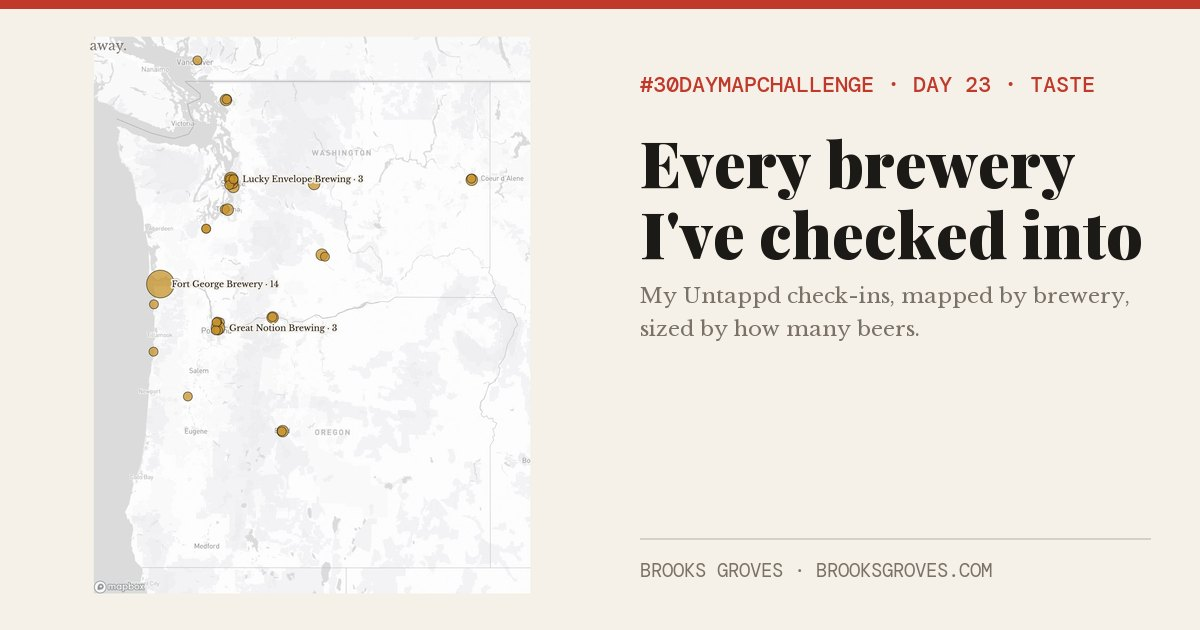
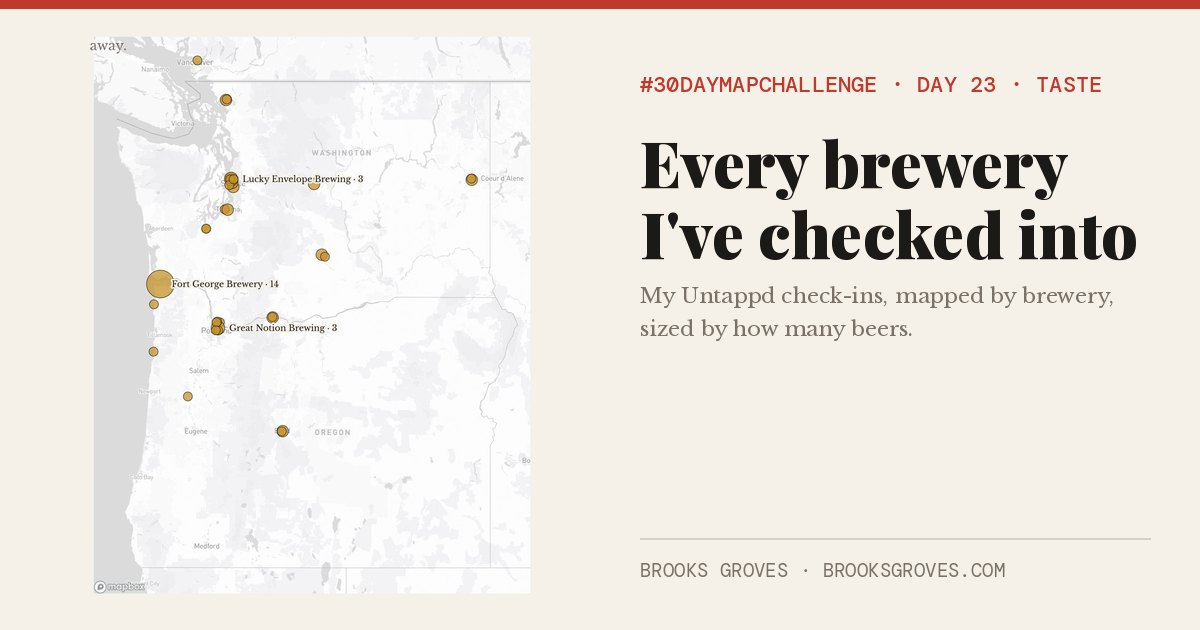
2026 Days 21, 23, 27: fixes from the first render (dashed paths, brewery towns, Overture release name)

diff --git a/2026/day-23-taste/make.py b/2026/day-23-taste/make.py
@@ -36,8 +36,22 @@ DATA.mkdir(exist_ok=True)
 HISTORY = "https://raw.githubusercontent.com/bdgroves/hoplove/main/data/untappd/history.yml"
 OBDB = "https://api.openbrewerydb.org/v1/breweries/search"
 VIEW = (-125.2, 41.6, -116.2, 49.6)                    # Cascadia: lon/lat box for the main map
-# Breweries Open Brewery DB doesn't hold, or holds under another name: (lon, lat, place)
+# Breweries Open Brewery DB doesn't hold, or holds under another name: (lon, lat, place). Placed at their
+# town (checked against each brewery's Untappd page or website, October 2026), not a street address.
 MANUAL = {
+    "Kings & Daughters Brewery": (-121.5215, 45.7054, "Hood River, OR"),
+    "Hood River Brewing Company": (-121.5215, 45.7054, "Hood River, OR"),
+    "Tripping Animals Brewing Co.": (-80.3553, 25.8195, "Doral, FL"),
+    "Stoup Brewing": (-122.3720, 47.6681, "Seattle, WA"),
+    "Vice Beer": (-122.6739, 45.6280, "Vancouver, WA"),
+    "Irrelevant Beer": (-122.6717, 45.6337, "Vancouver, WA"),
+    "Maui Brewing Company": (-156.4450, 20.7645, "Kihei, HI"),
+    "Superflux Beer Company": (-123.0700, 49.2766, "Vancouver, BC"),
+    "Phillips Brewing & Malting Co.": (-123.3656, 48.4284, "Victoria, BC"),
+    "Hetty Alice": (-122.6490, 45.5140, "Portland, OR"),
+    "Shaketown Brewing": (-123.0790, 49.3105, "North Vancouver, BC"),
+    "Gulfstream Brewing": (-80.1373, 26.1224, "Fort Lauderdale, FL"),
+    "Little Beast Brewing": (-122.6784, 45.5152, "Portland area, OR"),
     "Guinness": (-6.2867, 53.3419, "Dublin"),
     "Birrificio Angelo Poretti": (8.8406, 45.8513, "Induno Olona, Italy"),
     "Ichnusa": (9.0035, 39.2905, "Assemini, Sardinia"),

diff --git a/2026/day-27-new-tool/make.py b/2026/day-27-new-tool/make.py
@@ -40,7 +40,9 @@ def latest_release() -> str:
     try:
         with urllib.request.urlopen(urllib.request.Request(STAC, headers={"User-Agent": "30DMC"}), timeout=60) as r:
             cat = json.loads(r.read())
-        rel = sorted(lk["href"].strip("./").split("/")[0] for lk in cat["links"] if lk.get("rel") == "child")
+        import re
+        rel = sorted(m.group(0) for lk in cat["links"] if lk.get("rel") == "child"
+                     for m in [re.search(r"\d{4}-\d{2}-\d{2}\.\d+", lk["href"])] if m)
         return rel[-1]
     except Exception as e:  # noqa: BLE001
         print(f"  STAC catalog: {e}; using {FALLBACK}")

diff --git a/2026/day-21-openstreetmap/make.py b/2026/day-21-openstreetmap/make.py
@@ -99,7 +99,7 @@ W = {"motorway": 2.4, "trunk": 2.2, "primary": 2.2, "secondary": 1.6, "tertiary"
 for kind, g in roads.groupby(col(roads, "highway")):
     w = W.get(kind, 0.4)
     dashed = kind in ("track", "path", "footway", "bridleway", "cycleway")
-    g.plot(ax=ax, color=dmc.STONE if dashed else dmc.INK, lw=w, ls=(0, (2, 1.5)) if dashed else "-",
+    g.plot(ax=ax, color=dmc.STONE if dashed else dmc.INK, lw=w, ls="dashed" if dashed else "solid",
            alpha=0.85, zorder=3 if w > 1 else 2)
 water.plot(ax=ax, color=dmc.LAKE, lw=0.6, alpha=0.8, zorder=2)
 bld.plot(ax=ax, color=dmc.LAVA, lw=0, zorder=4)
